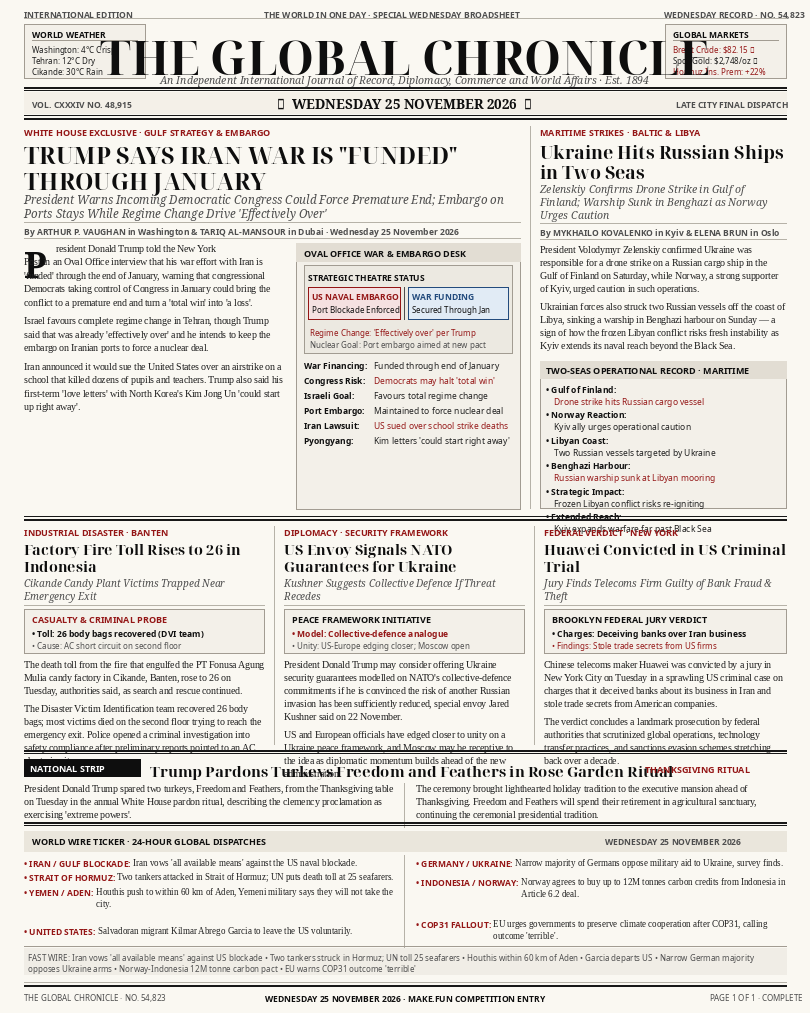
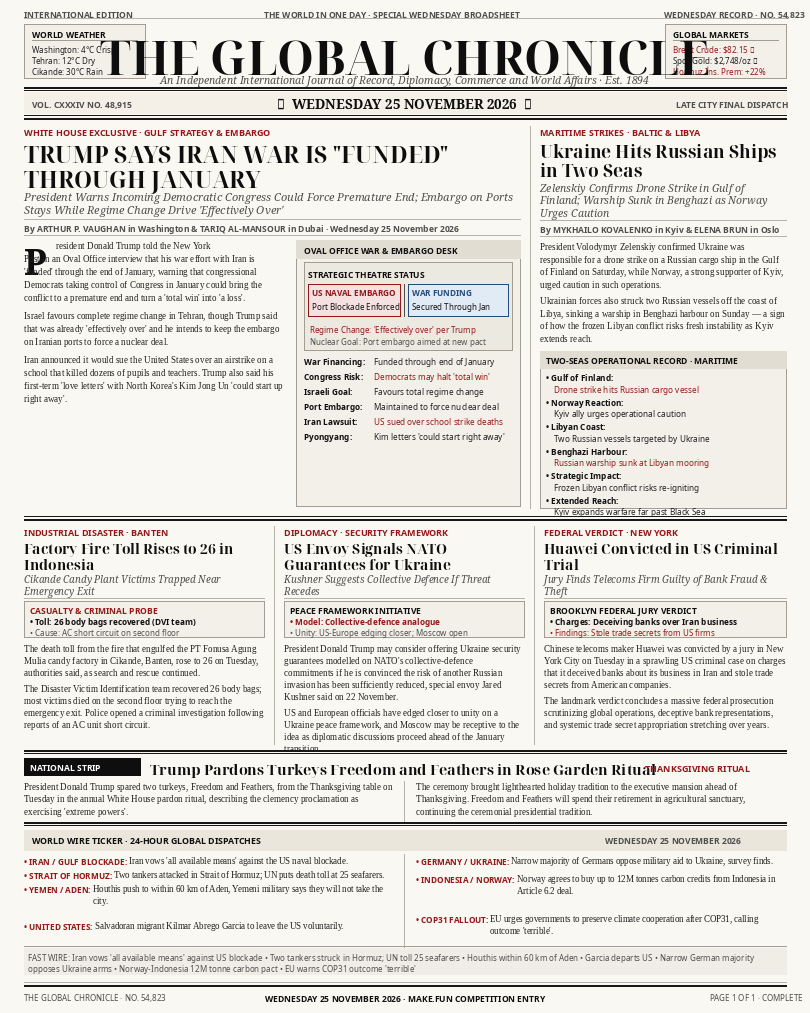
M2: polish + cross-directory test

Changed region(s): [[0.0309, 0.1224, 0.9877, 0.9487]]

diff --git a/main.ts b/main.ts
@@ -16,6 +16,10 @@ try {
   throw new Error(`Failed to create output directory "${outDir}": ${err instanceof Error ? err.message : String(err)}`);
 }
 
+if (!existsSync(outDir)) {
+  throw new Error(`Output directory does not exist and could not be created: ${outDir}`);
+}
+
 const srcUrl = new URL('./entry.png', import.meta.url);
 if (!existsSync(srcUrl)) {
   throw new Error(`Source poster image not found at expected path: ${srcUrl.pathname}`);
